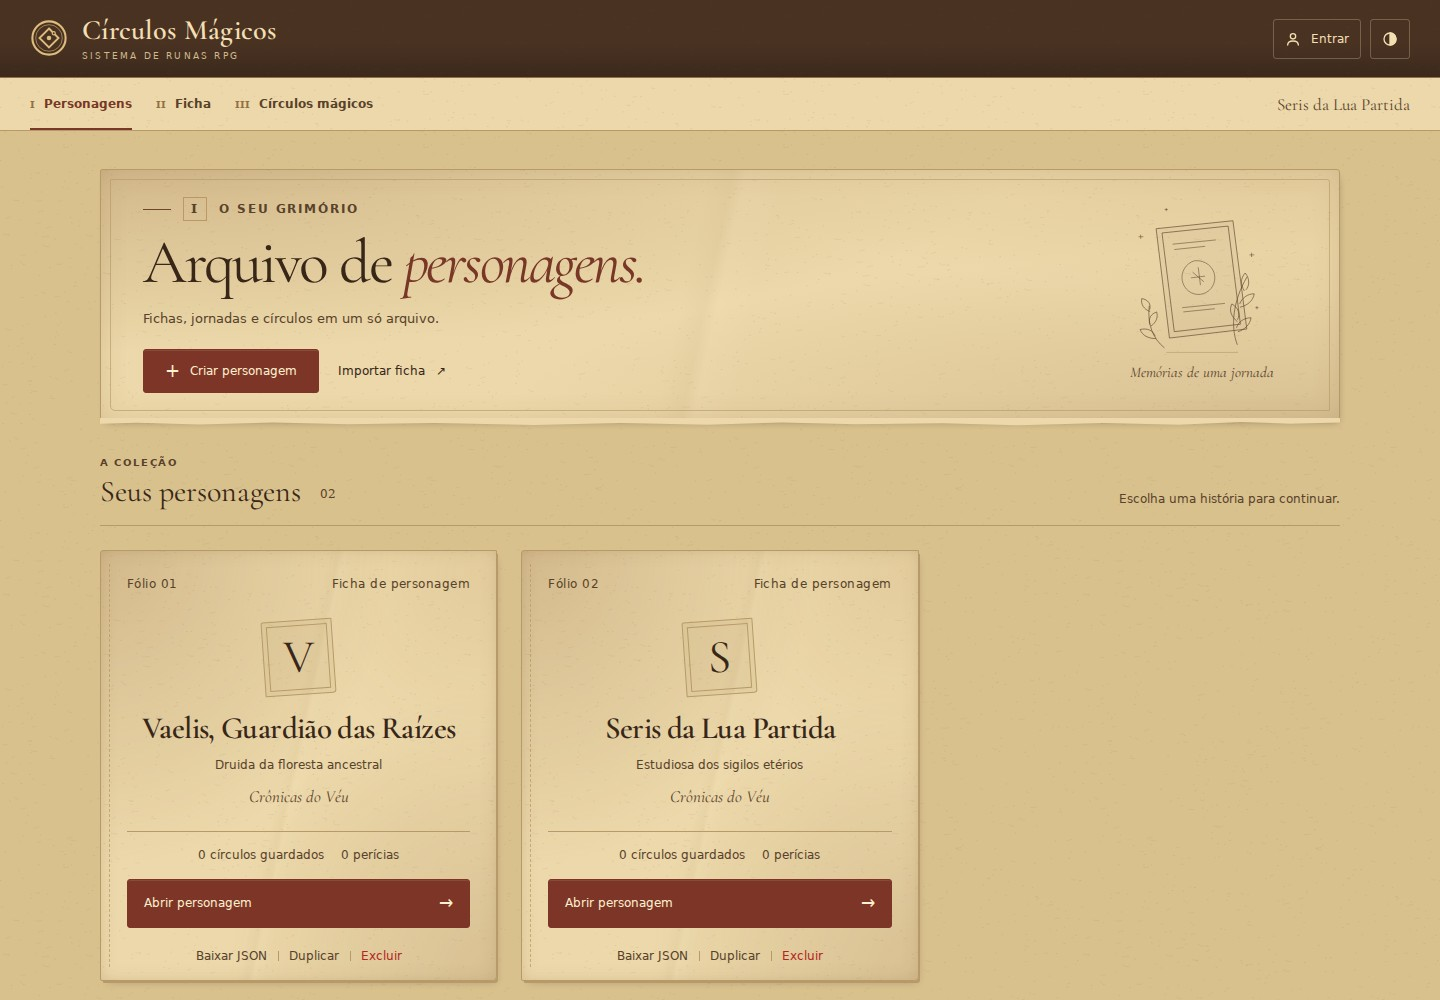
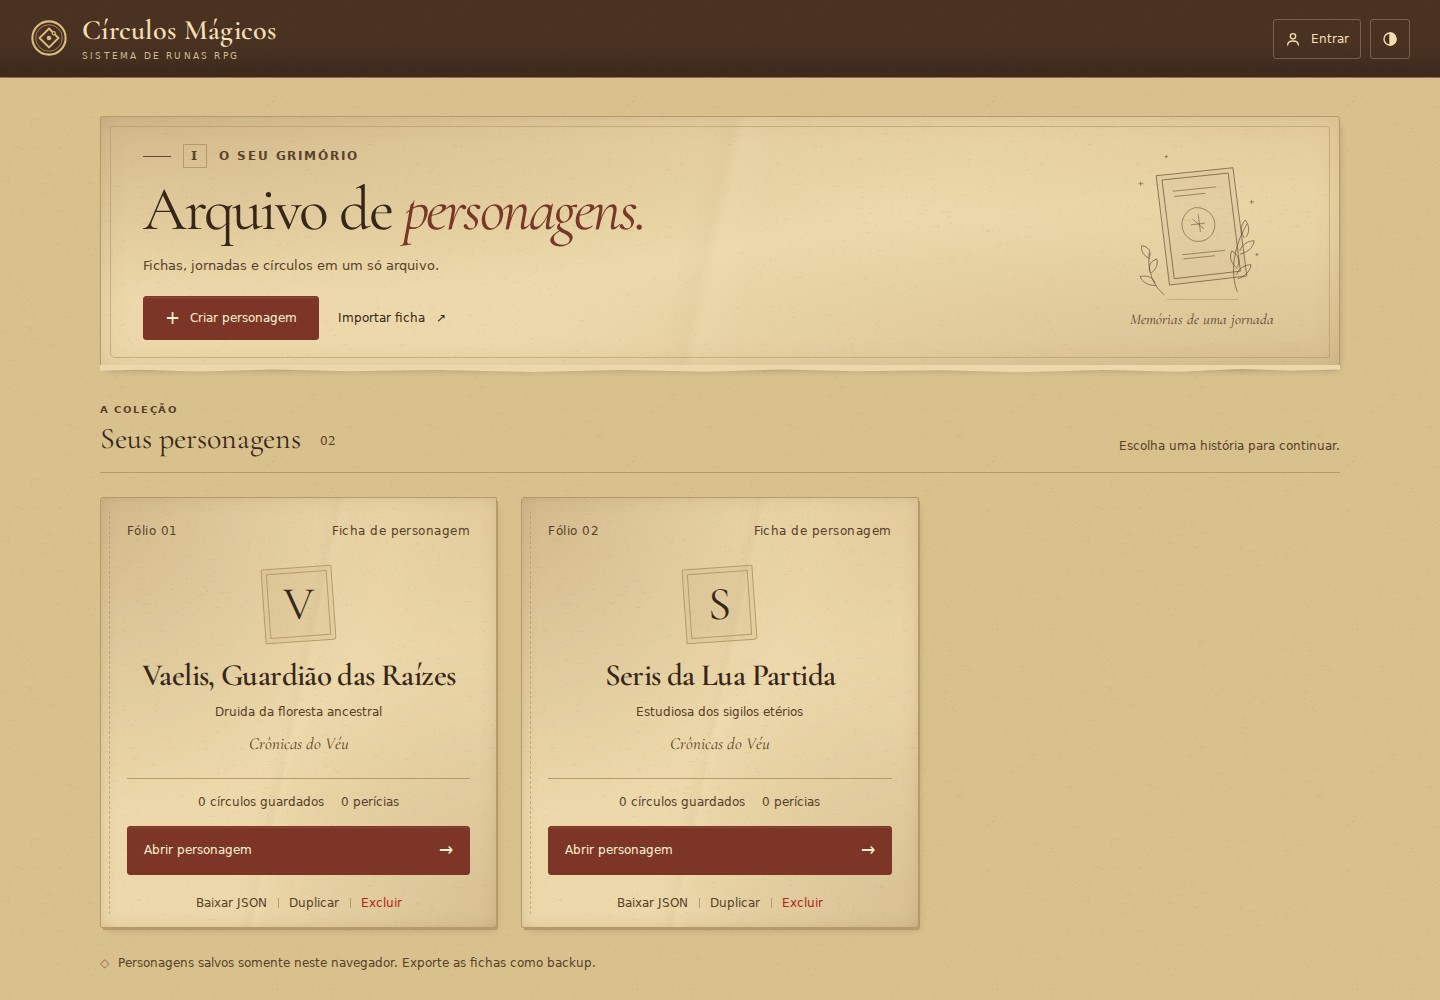
Ocultar as abas na seleção de personagens

diff --git a/tests/character-ui.test.ts b/tests/character-ui.test.ts
@@ -17,7 +17,7 @@ vi.mock('../src/ui/history', () => ({ resetHistory: vi.fn() }));
 vi.mock('../src/ui/store', () => ({ render: vi.fn(), store: { savedCircle: null } }));
 
 function mount(): void {
-  document.body.innerHTML = '<button id="btnCharacterLink" data-rpg-page="personagens"></button><button data-rpg-page="ficha"></button><button data-rpg-page="circulos"></button><div class="workspace"></div><div id="characterPage" hidden></div><select id="presetSelect"></select><div id="fileMenu"></div><button id="btnOpenGrimoire"></button><button id="btnAccount"></button><div id="characterEditorContext" hidden><span id="circleOwnerLabel"></span><span id="circleStatus" role="status"></span><button id="btnReturnCharacter"></button><button id="btnSaveCharacterCircle"></button></div>';
+  document.body.innerHTML = '<nav class="rpg-navigation" hidden><button id="btnCharacterLink" data-rpg-page="personagens"></button><button data-rpg-page="ficha"></button><button data-rpg-page="circulos"></button></nav><div class="workspace"></div><div id="characterPage" hidden></div><select id="presetSelect"></select><div id="fileMenu"></div><button id="btnOpenGrimoire"></button><button id="btnAccount"></button><div id="characterEditorContext" hidden><span id="circleOwnerLabel"></span><span id="circleStatus" role="status"></span><button id="btnReturnCharacter"></button><button id="btnSaveCharacterCircle"></button></div>';
 }
 const project = (name: string) => normalizeProject({ nodes: [{ id: 'p', shape: 'prism', lockedCenter: true }], spellInfo: { name, desc: '' } })!;
 const click = (selector: string): void => { document.querySelector<HTMLButtonElement>(selector)!.click(); };
@@ -72,6 +72,7 @@ describe('Seleção, criação e ficha dos personagens', () => {
     expect(document.getElementById('characterPage')!.hidden).toBe(false);
     expect(document.getElementById('characterRosterTitle')).not.toBeNull();
     expect(document.querySelector<HTMLElement>('.workspace')!.hidden).toBe(true);
+    expect(document.querySelector<HTMLElement>('.rpg-navigation')!.hidden).toBe(true);
     expect(document.querySelector<HTMLButtonElement>('[data-rpg-page="ficha"]')!.disabled).toBe(true);
     expect(document.querySelector<HTMLButtonElement>('[data-rpg-page="circulos"]')!.disabled).toBe(true);
     click('[data-rpg-page="circulos"]');
@@ -79,6 +80,7 @@ describe('Seleção, criação e ficha dos personagens', () => {
     expect(localStorage.getItem(CHARACTER_LIBRARY_KEY)).toBeNull();
     create();
     expect(document.getElementById('characterTitle')).not.toBeNull();
+    expect(document.querySelector<HTMLElement>('.rpg-navigation')!.hidden).toBe(false);
     expect(document.activeElement).toBe(nameInput());
     expect(document.querySelector<HTMLButtonElement>('[data-rpg-page="circulos"]')!.disabled).toBe(false);
     expect(stored().characters).toHaveLength(1);
@@ -107,10 +109,16 @@ describe('Seleção, criação e ficha dos personagens', () => {
   it('volta à seleção quando a aplicação entra após autenticação, preservando o personagem', () => {
     setupCharacter(); create('Viajante'); click('[data-character-action="enter-editor"]');
     expect(document.querySelector<HTMLElement>('.workspace')!.hidden).toBe(false);
+    expect(document.querySelector<HTMLElement>('.rpg-navigation')!.hidden).toBe(false);
     document.getElementById('characterPage')!.dispatchEvent(new Event('rpg:enter'));
     expect(document.getElementById('characterRosterTitle')).not.toBeNull();
     expect(document.querySelector<HTMLElement>('.workspace')!.hidden).toBe(true);
-    click('[data-rpg-page="ficha"]'); expect(nameInput().value).toBe('Viajante');
+    expect(document.querySelector<HTMLElement>('.rpg-navigation')!.hidden).toBe(true);
+    openFirst(); expect(nameInput().value).toBe('Viajante');
+    expect(document.querySelector<HTMLElement>('.rpg-navigation')!.hidden).toBe(false);
+    click('[data-rpg-page="personagens"]');
+    expect(document.querySelector<HTMLElement>('.rpg-navigation')!.hidden).toBe(true);
+    expect(document.activeElement).toBe(document.getElementById('characterRosterTitle'));
     expect(document.getElementById('btnAccount')!.hidden).toBe(false);
   });
   it('migra a ficha anterior e seus círculos sem apagar nem modificar o backup original', () => {

diff --git a/tests/account-gateway.test.ts b/tests/account-gateway.test.ts
@@ -81,7 +81,7 @@ beforeEach(() => {
       <button id="continueGuest" type="button">Continuar como visitante</button>
     </section>
     <main id="appShell" hidden>
-      <button id="btnCharacterLink">Personagens</button><main id="characterPage"></main>
+      <button id="btnCharacterLink" hidden>Personagens</button><main id="characterPage"><h2 id="characterRosterTitle" tabindex="-1">Personagens</h2></main>
       <button id="btnAccount"><span id="accountLabel">Entrar</span></button>
       <div id="accountModal"><div id="accountPanel" hidden>
         <span id="accountEmail"></span><div id="adminCard" hidden></div>
@@ -136,9 +136,12 @@ describe('Entrada da conta e modo visitante', () => {
     el('characterPage').addEventListener('rpg:enter', enter);
     await start();
     expect(enter).toHaveBeenCalledTimes(1);
+    expect(document.activeElement).toBe(el('characterRosterTitle'));
+    el('btnAccount').focus();
     emit(userA, 'TOKEN_REFRESHED');
     await settle();
     expect(enter).toHaveBeenCalledTimes(1);
+    expect(document.activeElement).toBe(el('btnAccount'));
   });
 
   it('abre a entrada antes do editor e resolve a sessão inicial sem conta', async () => {

diff --git a/src/ui/character.ts b/src/ui/character.ts
@@ -94,6 +94,8 @@ export function setupCharacter(): void {
     changeCircleContext();
     root.hidden = view === 'circulos';
     workspace.hidden = view !== 'circulos';
+    const navigation = document.querySelector<HTMLElement>('.rpg-navigation');
+    if (navigation) navigation.hidden = view === 'personagens';
     for (const id of ['presetSelect', 'fileMenu', 'btnOpenGrimoire']) byId(id).hidden = view !== 'circulos';
     const contextLabel = document.querySelector<HTMLElement>('.character-context-label');
     if (contextLabel) contextLabel.textContent = activeId ? character.identidade.nome.trim() || 'Personagem sem nome' : 'Escolha um personagem para começar';

diff --git a/index.html b/index.html
@@ -143,7 +143,7 @@
     </div>
   </header>
 
-  <nav class="rpg-navigation" aria-label="Área do RPG">
+  <nav class="rpg-navigation" aria-label="Área do RPG" hidden>
     <button class="rpg-page-button active" id="btnCharacterLink" data-rpg-page="personagens" aria-pressed="true">Personagens</button>
     <button class="rpg-page-button" data-rpg-page="ficha" aria-pressed="false" disabled>Ficha</button>
     <button class="rpg-page-button" data-rpg-page="circulos" aria-pressed="false" disabled>Círculos mágicos</button>

diff --git a/src/cloud/account.ts b/src/cloud/account.ts
@@ -63,7 +63,7 @@ function showApplication(): void {
     window.dispatchEvent(new Event('resize'));
     byId('characterPage').dispatchEvent(new Event('rpg:enter'));
     render();
-    byId('btnCharacterLink').focus();
+    document.getElementById('characterRosterTitle')?.focus({ preventScroll: true });
   }
 }
 

diff --git a/README.md b/README.md
@@ -276,7 +276,7 @@ A fonte Cormorant Garamond é servida pelo próprio site, em WOFF2 com `font-dis
 
 ## Seleção de personagens
 
-Depois do acesso, a primeira tela é a seleção de personagens. Crie um personagem ou importe uma ficha JSON; abra o cartão para preencher identidade, história, atributos, perícias, recursos, habilidades e inventário. Criar ou importar adiciona um personagem, sem substituir os anteriores. Também é possível duplicar, baixar e excluir personagens com confirmação.
+Depois do acesso, a primeira tela é a seleção de personagens, com a coleção e as ações de criar/importar. As abas de navegação aparecem ao abrir um personagem e ficam ocultas ao voltar à seleção. Crie um personagem ou importe uma ficha JSON; abra o cartão para preencher identidade, história, atributos, perícias, recursos, habilidades e inventário. Criar ou importar adiciona um personagem, sem substituir os anteriores. Também é possível duplicar, baixar e excluir personagens com confirmação.
 
 As fichas ficam nesta instalação do navegador: até 24 personagens e 4 MB para a coleção, com o limite de 2 MB por ficha. A ficha única do formato anterior é recuperada automaticamente e a chave antiga é preservada como cópia. Falhas de armazenamento são informadas; nesse caso baixe os JSONs antes de fechar a página.
 

diff --git a/docs/visual-review.md b/docs/visual-review.md
@@ -33,6 +33,7 @@ Dados fictícios, criados pela interface em uma sessão local de verificação.
 - Texto secundário escurecido no tema claro para preservar a leitura nas áreas manchadas. Amostras do fundo junto ao texto deram contraste mínimo de 4,57:1 na apresentação de acesso e 4,73:1 nas legendas da ficha. As texturas ficam atrás do conteúdo, sem aplicar opacidade aos textos.
 - Menu Exportar nos dois temas: texto em hover a 7,08:1 e descrição a 4,87:1; opções dos exemplos a 12,52:1.
 - A navegação mantém o índice fixo, o seletor móvel e o foco nos títulos. Voltar à coleção/ficha restaura o início da página sem recortar a apresentação.
+- A seleção mostra a coleção sem a barra de abas. A barra reaparece na ficha e no editor; ao voltar à seleção, o foco vai para seu título. Entrar com ou sem conta segue esse mesmo caminho.
 
 ## Preservação dos círculos
 
